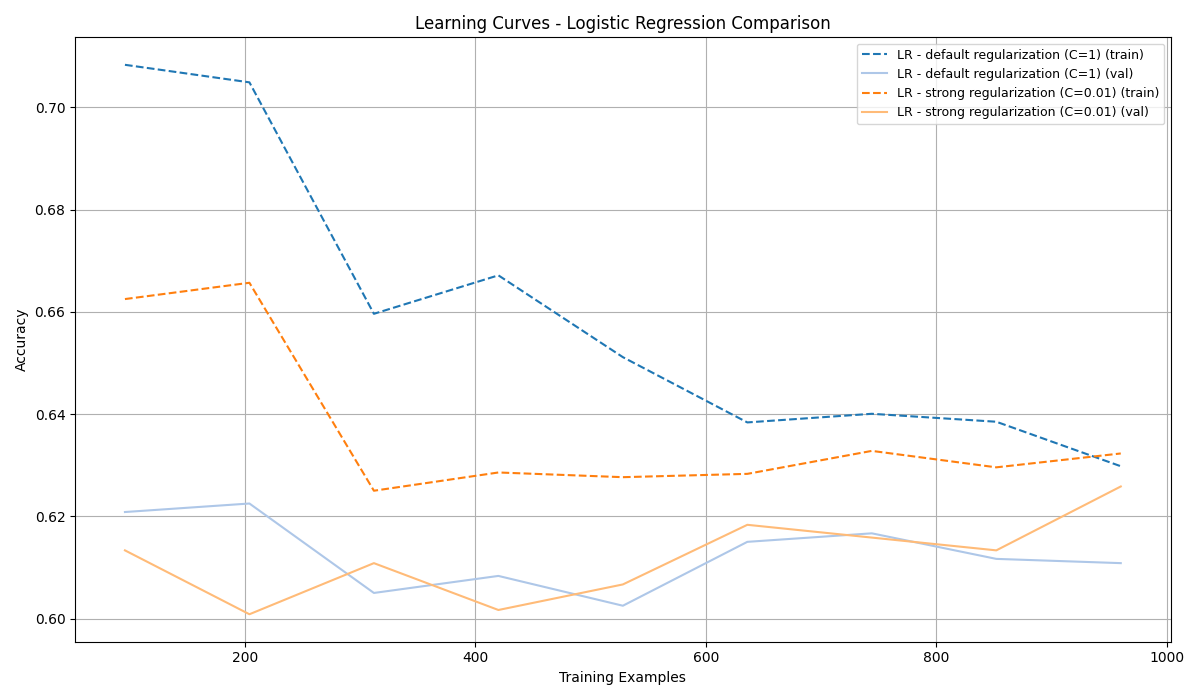
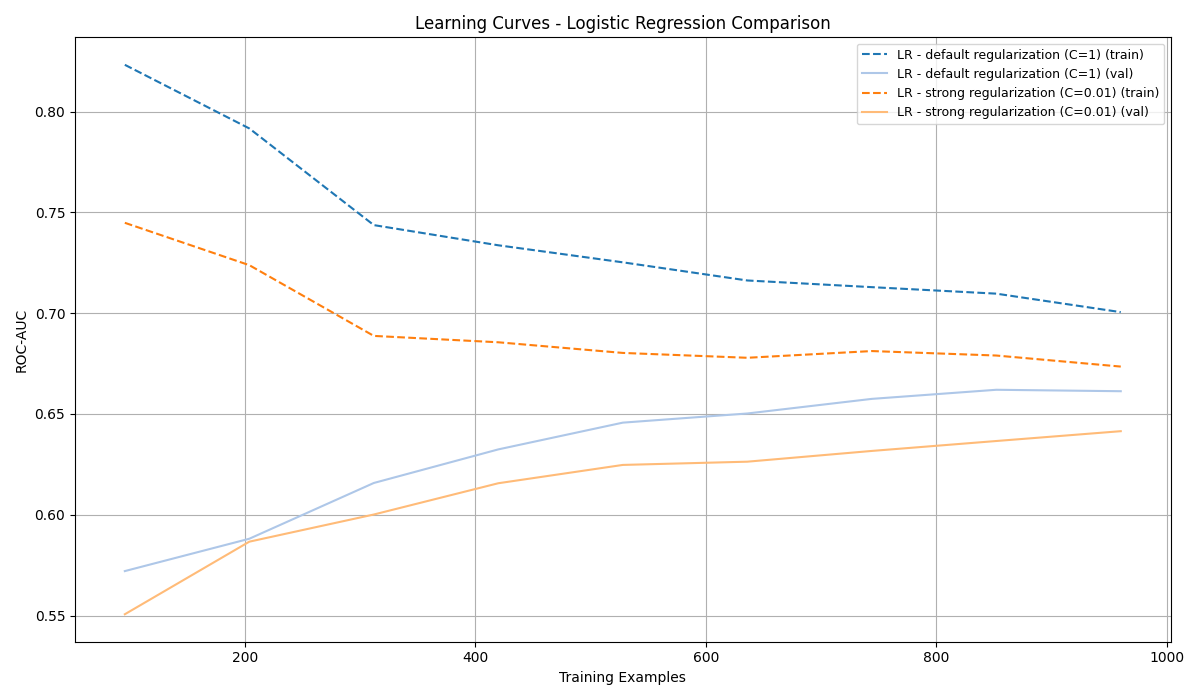
Add learning curve analysis for Logistic Regression models

diff --git a/learning_curves_analysis.py b/learning_curves_analysis.py
@@ -137,7 +137,7 @@ def main():
             y_train,
             cv=5,
             train_sizes=TRAIN_SIZES,
-            scoring="accuracy",
+            scoring="roc_auc",
             n_jobs=-1
         )
 
@@ -173,7 +173,7 @@ def main():
     # =========================
     plt.title("Learning Curves - Logistic Regression Comparison")
     plt.xlabel("Training Examples")
-    plt.ylabel("Accuracy")
+    plt.ylabel("ROC-AUC")
     plt.grid(True)
     plt.legend(fontsize=9)
     plt.tight_layout()
